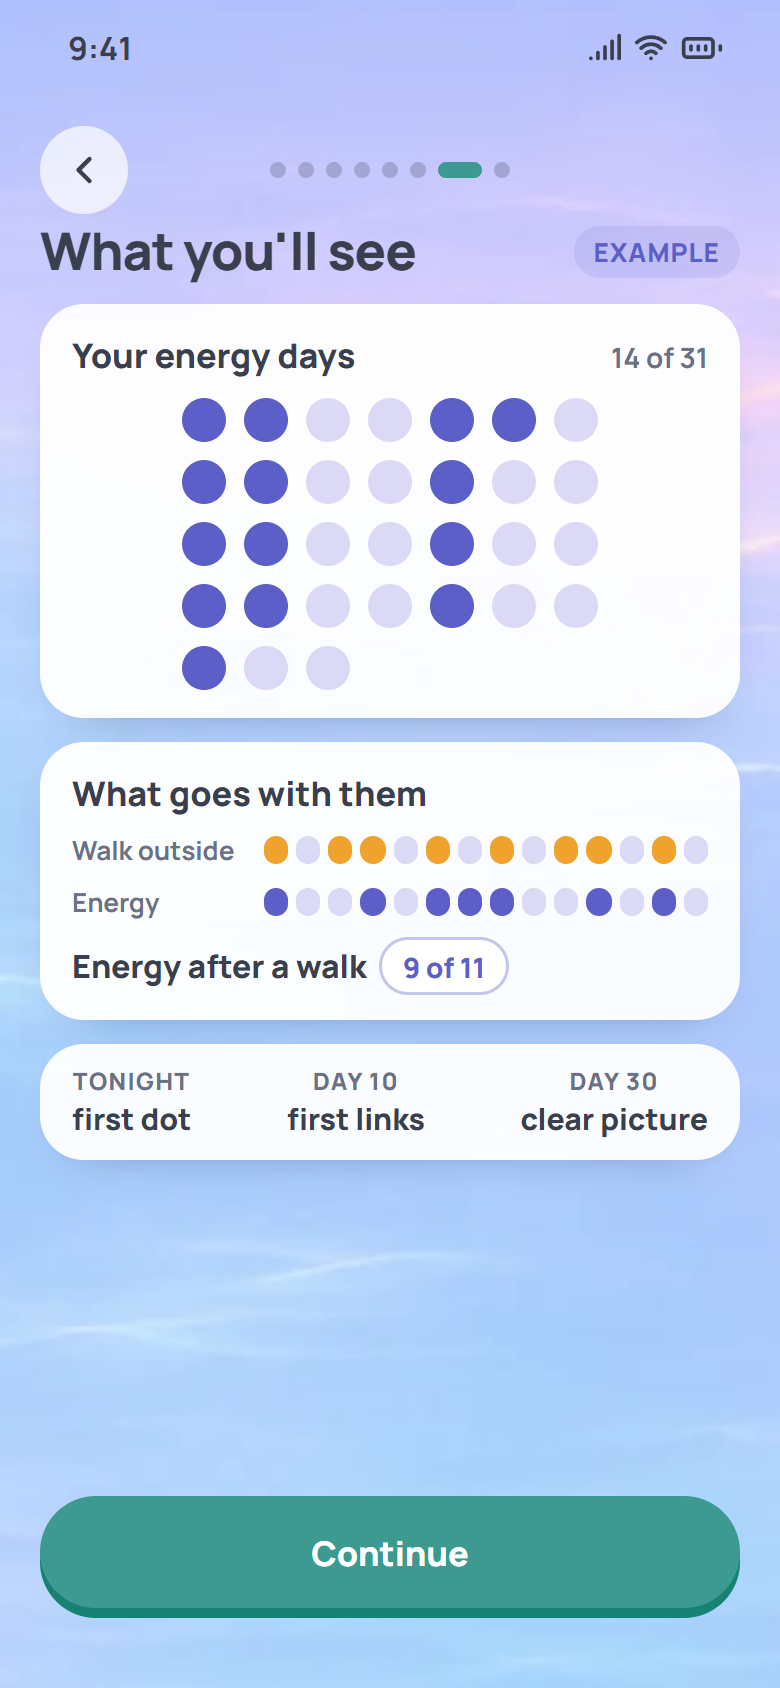
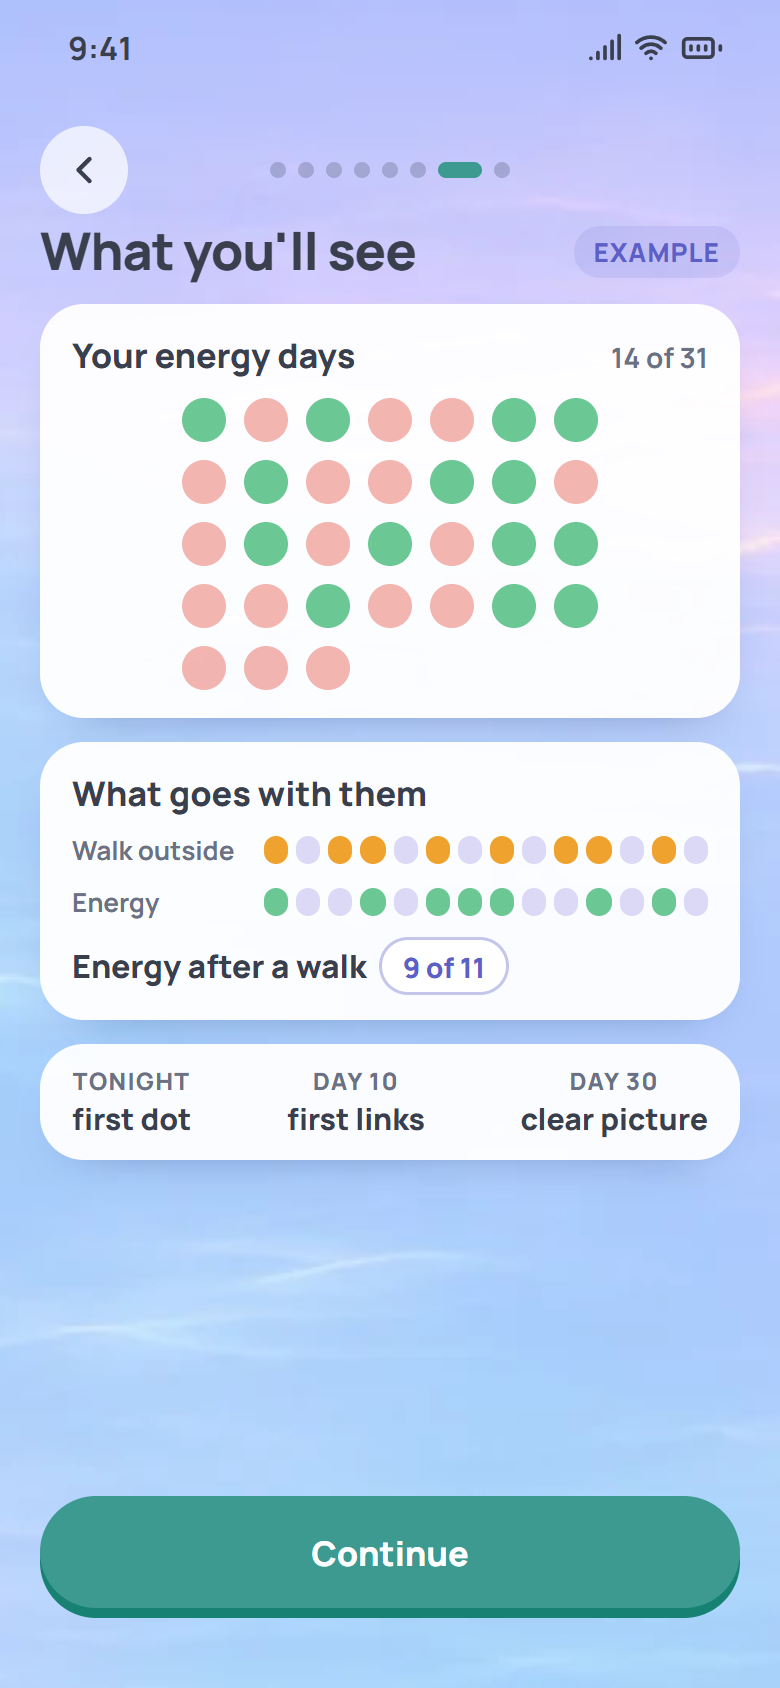
Hard days reddish, good days greenish; fill in past days; yesterday first on a daytime day 1 (v70)
Her notes: colour by meaning, red-ish for hard and green-ish for good; a way to
fill in past days as before; a daytime onboarding offers yesterday's questions.
--strong / --balanced are coral and green in the new look; link signs and
pair lines stay indigo; a link's dots take the colour of the answer counted.
The World calendar card is decided by her main question (or most answers),
not by any one hard answer. Today: a 'Fill in Thursday' pill for the latest
of the last 3 empty days; the evening card opens with its 7-day strip and
marks answered days; a young path starts at a filled day. Day 1 before 17:00
begins with 'Yesterday's questions'. Storyline v2 boards recoloured.

diff --git a/src/components/EveningPath.tsx b/src/components/EveningPath.tsx
@@ -22,7 +22,7 @@ import { cn } from "@/lib/utils";
 import { haptics } from "@/lib/haptics";
 import { playWheelTick, preloadSounds } from "@/lib/feedback";
 import { isoDay } from "@/lib/eveningPath";
-import { DAYS_PER_WEEK, getChests, markActSeen, pathModel, skipTask, syncTasks, type Step, type TaskId } from "@/lib/pathSteps";
+import { DAYS_PER_WEEK, getChests, markActSeen, pastDays, pathModel, skipTask, syncTasks, type Step, type TaskId } from "@/lib/pathSteps";
 import { buildIslands, buildRoutes } from "@/lib/islands";
 import { ITEMS, itemProgress, owned, worldFacts, type ItemId } from "@/lib/growth";
 import { ExperimentSheet } from "@/components/ExperimentSheet";
@@ -186,8 +186,12 @@ export const EveningPath = ({
   const hunchReady = useMemo(() => !!readyHunch(trackers, entries), [trackers, entries, tick]); // eslint-disable-line react-hooks/exhaustive-deps
   // A missed day to fill in waits beside the path, not on it (WORLD-BIBLE,
   // Nov 5 2026): the path holds only today's steps.
-  const steps = useMemo(() => m.steps.filter((s) => s.kind !== "fill"), [m]);
-  const missed = m.steps.find((s) => s.kind === "fill" && !s.done) ?? null;
+  const steps = useMemo(() => m.steps.filter((s) => s.kind !== "fill" || s.onPath), [m]);
+  // A past day to fill in (her note, Nov 6 2026: "дать возможность заполнять за
+  // прошлые дни, как у меня было"): the latest of the last 3 days without its
+  // answers, on a pill that stays in sight; the evening card then shows all 7 days.
+  // Not while yesterday waits on the path itself (day 1 morning).
+  const pastPick = useMemo(() => (m.steps.some((s) => s.onPath) ? null : pastDays(trackers, entries).slice(-3).reverse().find((d) => d.state !== "done") ?? null), [m, trackers, entries]);
   const nodes: PNode[] = useMemo(() => {
     const out: PNode[] = m.pastInWeek.map((date) => ({ kind: "past" as const, date }));
     for (const step of steps) out.push({ kind: "step", step });
@@ -239,7 +243,7 @@ export const EveningPath = ({
   const stepName = (s: Step) => {
     if (s.kind === "auto") return t(s.auto === "topic" ? "path.auto.topic" : "path.auto.first");
     if (s.kind === "grew") return t("path.grew", { name: islandName(t, s.island!) });
-    if (s.kind === "fill") return t("path.fillTitle", { day: weekdayName(s.date!) });
+    if (s.kind === "fill") return s.onPath ? t("path.fillYesterday") : t("path.fillTitle", { day: weekdayName(s.date!) });
     if (s.kind === "game") return t("hunch.step");
     if (s.kind === "act") return t("act.step");
     if (s.kind === "test") return t("experiment.stepDone");
@@ -835,15 +839,7 @@ export const EveningPath = ({
           <p className="path-week-label">{t("path.weekN", { n: m.week + 1 })} · {title}</p>
         </div>
       </div>
-      {/* the missed day, on the side: one small button, never a step */}
-      {missed && (
-        <button type="button" onClick={() => { haptics.tap(); onFillDay(missed.date!); }}
-          className="missed-day mx-auto mt-3 flex h-11 items-center gap-2 rounded-full px-4 text-[15px] font-bold">
-          <CalendarDays className="h-[18px] w-[18px]" strokeWidth={2.4} />
-          {t("path.missedDay", { day: weekdayName(missed.date!) })}
-          <ChevronRight className="h-4 w-4 opacity-60" strokeWidth={2.6} />
-        </button>
-      )}
+
 
       {/* The path. */}
       <section aria-label={title} className="animate-fade-in" style={{ marginTop: 14 }}>
@@ -905,6 +901,17 @@ export const EveningPath = ({
           </div>
         } />
 
+
+      {/* a past day to fill in: always in sight, bottom left (the "back" pill is right) */}
+      {pastPick && createPortal(
+        <button type="button" onClick={() => { haptics.tap(); onFillDay(pastPick.date); }}
+          className="past-pill fixed left-4 z-[30] flex h-12 items-center gap-2 rounded-full bg-white pl-3 pr-4 text-[15px] font-extrabold text-foreground shadow-lg animate-fade-in active:scale-95 transition-transform dark:bg-[hsl(var(--surface))]"
+          style={{ bottom: "calc(7.5rem + env(safe-area-inset-bottom, 0px))" }}>
+          <CalendarDays className="h-5 w-5 text-[hsl(var(--coin-teal))]" strokeWidth={2.4} />
+          {t("path.pastFill", { day: weekdayName(pastPick.date) })}
+        </button>,
+        document.body,
+      )}
 
       {/* Away from her step: back to it, her avatar on the button. */}
       {away && createPortal(

diff --git a/src/lib/pathSteps.ts b/src/lib/pathSteps.ts
@@ -47,6 +47,8 @@ const TASKS_LATER: TaskId[] = ["experiment", "newIsland"];
 export interface Step {
   id: string;
   /** "fill": a missed day (yesterday or the day before) to answer first */
+  /** a fill drawn on the path itself (day 1 before the evening: yesterday's questions) */
+  onPath?: boolean;
   /** "game": the day's hunch (src/components/HunchGame.tsx; was "Guess") */
   /** "act": a rule she set was reached: time for her plan (lighthouses) */
   /** "test": her week of trying one change is over: see how it went */
@@ -388,6 +390,31 @@ export const pathStart = (today: string): string => {
   }
 };
 
+/** A past day she fills in counts on a young path (her note, Nov 6 2026: "дать
+ *  возможность заполнять за прошлые дни"): a path that began in the last 7 days
+ *  moves its start back to that day, so the day is an evening of week 1. An older
+ *  path stays as it is (its weeks don't shift). */
+export const extendPathStart = (date: string, now = new Date()) => {
+  try {
+    const today = isoLocal(now);
+    const start = pathStart(today);
+    const weekAgo = isoLocal(new Date(now.getFullYear(), now.getMonth(), now.getDate() - 7));
+    if (date < start && date >= weekAgo && start >= weekAgo) localStorage.setItem(START_KEY, date);
+  } catch { /* the day is saved; it just won't count on the path */ }
+};
+
+/** The last 7 days before today, oldest first: answered (counted), started (some answers) or empty. */
+export const pastDays = (trackers: Tracker[], entries: TrackerEntry[], now = new Date()): { date: string; state: "done" | "some" | "empty" }[] => {
+  const today = isoLocal(now);
+  const counted = new Set(countedDays(trackers, entries, today));
+  const ids = new Set(activeQuestions(trackers).map((t) => t.id));
+  const some = new Set(entries.filter((e) => ids.has(e.trackerId)).map((e) => e.date));
+  return Array.from({ length: 7 }, (_, i) => {
+    const date = isoLocal(new Date(now.getFullYear(), now.getMonth(), now.getDate() - (7 - i)));
+    return { date, state: counted.has(date) ? "done" : some.has(date) ? "some" : "empty" };
+  });
+};
+
 const CHESTS_KEY = "memap_week_chests";
 /** What a week's chest showed when it was opened: saved once, reopened as is. */
 export interface ChestLine { label: string; k: number; n: number; main?: boolean; calm?: boolean }
@@ -468,13 +495,18 @@ export const pathModel = (trackers: Tracker[], entries: TrackerEntry[], now = ne
   const started = door?.startedAt ?? start;
   const firstEntry = entries.reduce<string | null>((min, e) => (min === null || e.date < min ? e.date : min), null);
   const counted = new Set(all);
+  // Day 1 before the evening (her note, Nov 6 2026: "если онбординг проходит днём
+  // или утром, предлагать вопросы за вчера"): today isn't over yet, so yesterday's
+  // questions come first, on the path itself; tonight is today's.
+  const dayOneMorning = started === today && now.getHours() < 17;
   for (const back of [1, 2]) {
     const d = new Date(now.getFullYear(), now.getMonth(), now.getDate() - back);
     const iso = isoLocal(d);
-    if (iso < started || !firstEntry || firstEntry >= iso || counted.has(iso)) continue;
+    const onPath = back === 1 && dayOneMorning;
+    if (counted.has(iso) || (!onPath && (iso < started || !firstEntry || firstEntry >= iso))) continue;
     const ids = activeQuestions(trackers).map((t) => t.id);
     const got = new Set(entries.filter((e) => e.date === iso).map((e) => e.trackerId));
-    steps.push({ id: `fill:${iso}`, kind: "fill", date: iso, trackerIds: ids, answered: ids.filter((id) => got.has(id)).length, done: false });
+    steps.push({ id: `fill:${iso}`, kind: "fill", date: iso, trackerIds: ids, answered: ids.filter((id) => got.has(id)).length, done: false, onPath });
     break;
   }
 

diff --git a/src/components/DaysOverview.tsx b/src/components/DaysOverview.tsx
@@ -9,7 +9,7 @@
 import { useEffect, useMemo, useRef, useState } from "react";
 import { useTranslation } from "react-i18next";
 import { Tracker, TrackerEntry } from "@/types/tracker";
-import { isoLocal } from "@/lib/doors";
+import { getDoorState, isoLocal } from "@/lib/doors";
 import { isHardAnswer, mapPic } from "@/lib/islands";
 import { litTrackers } from "@/lib/lighthouses";
 import { answeredEvenings, SHAPING_EVENINGS } from "@/lib/actionPoints";
@@ -45,31 +45,41 @@ export const DaysOverview = ({ trackers, entries, onOpen }: {
   const { t } = useTranslation();
   const live = useMemo(() => trackers.filter((tr) => !tr.archived && tr.source !== "play"), [trackers]);
 
-  // The last 28 days: answered, hard (a problem question answered YES), empty.
-  const month = useMemo(() => {
-    const ids = new Set(live.map((tr) => tr.id));
+  // What a day was (Nov 6 2026, the colours turned red / green: "any hard answer"
+  // made nearly every day red with many questions): her main question decides
+  // when it was answered; otherwise most of the day's answers do.
+  const dayLook = useMemo(() => {
     const byId = new Map(live.map((tr) => [tr.id, tr]));
-    return Array.from({ length: 28 }, (_, i) => {
-      const d = new Date();
-      d.setDate(d.getDate() - (27 - i));
-      const iso = isoLocal(d);
-      const es = entries.filter((e) => e.date === iso && ids.has(e.trackerId));
-      return es.length === 0 ? "none" : es.some((e) => isHardAnswer(byId.get(e.trackerId)!, e.value)) ? "hard" : "calm";
-    });
+    const main = getDoorState()?.trackerId;
+    const byDay = new Map<string, TrackerEntry[]>();
+    for (const e of entries) if (byId.has(e.trackerId)) byDay.set(e.date, [...(byDay.get(e.date) ?? []), e]);
+    return (iso: string): "none" | "hard" | "calm" => {
+      const es = byDay.get(iso) ?? [];
+      if (es.length === 0) return "none";
+      const m = main ? es.find((e) => e.trackerId === main) : undefined;
+      if (m) return isHardAnswer(byId.get(m.trackerId)!, m.value) ? "hard" : "calm";
+      const hard = es.filter((e) => isHardAnswer(byId.get(e.trackerId)!, e.value)).length;
+      return hard * 2 > es.length ? "hard" : "calm";
+    };
   }, [live, entries]);
 
-  // Hard days per week, the last 8 weeks (oldest first).
+  // The last 28 days: hard (red), calm / good (green), empty.
+  const month = useMemo(() => Array.from({ length: 28 }, (_, i) => {
+    const d = new Date();
+    d.setDate(d.getDate() - (27 - i));
+    return dayLook(isoLocal(d));
+  }), [dayLook]);
+
+  // Hard days per week, the last 8 weeks (oldest first), by the same rule.
   const weeks = useMemo(() => Array.from({ length: 8 }, (_, w) => {
-    const byId = new Map(live.map((tr) => [tr.id, tr]));
-    const days = new Set<string>();
+    let n = 0;
     for (let d = 0; d < 7; d++) {
       const day = new Date();
       day.setDate(day.getDate() - ((7 - w) * 7 + d));
-      const iso = isoLocal(day);
-      if (entries.some((e) => e.date === iso && byId.has(e.trackerId) && isHardAnswer(byId.get(e.trackerId)!, e.value))) days.add(iso);
+      if (dayLook(isoLocal(day)) === "hard") n++;
     }
-    return days.size;
-  }), [live, entries]);
+    return n;
+  }), [dayLook]);
 
   const lit = useMemo(() => litTrackers(trackers, entries).size, [trackers, entries]);
   const rules = live.filter((tr) => tr.threshold > 0).length;

diff --git a/src/index.css b/src/index.css
@@ -2362,17 +2362,19 @@ header h1 { transition: opacity 200ms ease; }
 .planet-sky.night { background-size: 100% auto; background-color: #2C3B70; }
 .planet-canvas, .planet-wakes { position: absolute; inset: 0; width: 100%; height: 100%; }
 .planet-wakes { pointer-events: none; }
-/* Data colours in the new look (her note, Nov 4 2026: the calendar's and charts'
-   teal, yellow and pink "совсем не те"): indigo = a yes / a signal (the islands'
-   storm), soft lavender = a no / calm, warm amber = the second line of a pair.
-   The old screens keep theirs (:root). */
+/* Data colours in the new look. Nov 4 2026 (her note: teal, yellow and pink "совсем
+   не те"): indigo and lavender. Nov 6 2026 (her note: "колор-кодинг на плохое и
+   хорошее — красноватое, зеленоватое, а то неочевидно"): a hard day (--strong) is
+   soft coral red, a good / calm day (--balanced) soft green, by what the answer
+   means, not yes/no. Indigo (--data-a) stays for neutral things: a pair's first
+   line, a link's sign; warm amber the second line. The old screens keep theirs. */
 :root { --data-a: var(--coin-teal); --data-b: 322 40% 60%; }
 /* Text: soft graphite #3A3F4E, quieter text #6B7184 (her pick, Nov 5 2026, board 51) */
 html[data-ui="new"][data-theme="aurora-light"] { --foreground: 226 15% 27%; --muted-foreground: 226 10% 47%; }
-html[data-ui="new"][data-theme="aurora-light"] { --strong: 232 62% 64%; --strong-foreground: 0 0% 100%; --balanced: 228 75% 84%; --balanced-foreground: 232 45% 30%; --data-a: 232 62% 62%; --data-b: 36 86% 56%; }
-html[data-ui="new"][data-theme="aurora"] { --strong: 232 80% 72%; --strong-foreground: 232 60% 12%; --balanced: 228 55% 68%; --balanced-foreground: 0 0% 100%; --data-a: 232 85% 74%; --data-b: 38 90% 62%; }
+html[data-ui="new"][data-theme="aurora-light"] { --strong: 5 76% 65%; --strong-foreground: 0 0% 100%; --balanced: 146 45% 60%; --balanced-foreground: 150 50% 18%; --data-a: 232 62% 62%; --data-b: 36 86% 56%; }
+html[data-ui="new"][data-theme="aurora"] { --strong: 5 82% 70%; --strong-foreground: 5 60% 14%; --balanced: 146 48% 58%; --balanced-foreground: 150 60% 10%; --data-a: 232 85% 74%; --data-b: 38 90% 62%; }
 /* a link's sign on its route: opens the link card (LinkSheet) */
-.link-chip { width: 34px; height: 34px; border-radius: 17px; background: #fff; color: hsl(var(--strong)); display: flex; align-items: center; justify-content: center;
+.link-chip { width: 34px; height: 34px; border-radius: 17px; background: #fff; color: hsl(var(--data-a)); display: flex; align-items: center; justify-content: center;
   box-shadow: 0 6px 14px -8px rgba(20, 50, 90, .55); transition: transform .12s ease-out; }
 button.link-chip:active { transform: scale(.92); }
 .planet-link-chip { position: absolute; left: 0; top: 0; will-change: transform, opacity; }

diff --git a/src/lib/islands.ts b/src/lib/islands.ts
@@ -153,7 +153,7 @@ export interface Island {
  *  firstYes false: the days WITHOUT the first (her note, Nov 6 2026: "no walk →
  *  tired" read as "walk → tired"); secondYes false: the second did NOT come.
  *  other: the second (that same answer) on the rest of the days. */
-export interface Route { a: IslandId; b: IslandId; k: number; n: number; first: string; second: string; nextDay: boolean; firstYes: boolean; secondYes: boolean; other: { k: number; n: number } }
+export interface Route { a: IslandId; b: IslandId; k: number; n: number; first: string; second: string; nextDay: boolean; firstYes: boolean; secondYes: boolean; other: { k: number; n: number }; /** the counted answer is a hard one (red), a good one (green), or neither */ secondHard: boolean | null }
 
 /** A pattern as she reads it. Together (phi > 0): "with A → B". Apart (phi < 0):
  *  the second is told by its hard answer, as a hard day is (WORLD-BIBLE): "without
@@ -169,8 +169,10 @@ export const linkOf = (c: CorrelationResult) => {
   // in reading order: the first is A, or B when B came the day before
   const at = (f: boolean, s: boolean) => (flip ? cell(s, f) : cell(f, s));
   const k = at(firstYes, secondYes), ok = at(!firstYes, secondYes);
+  const pol = trackerPolarity(second0);
+  const secondHard = pol === "neutral" ? null : secondYes === (pol === "bad");
   return {
-    first: flip ? c.trackerB : c.trackerA, second: second0, firstYes, secondYes, nextDay: c.lag !== 0,
+    first: flip ? c.trackerB : c.trackerA, second: second0, firstYes, secondYes, secondHard, nextDay: c.lag !== 0,
     k, n: k + at(firstYes, !secondYes), other: { k: ok, n: ok + at(!firstYes, !secondYes) },
   };
 };
@@ -264,7 +266,7 @@ export const buildRoutes = (trackers: Tracker[], entries: TrackerEntry[], island
     const key = [a, b].sort().join("|");
     if (seen.has(key)) continue;
     seen.add(key);
-    out.push({ a, b, k: l.k, n: l.n, first: l.first.id, second: l.second.id, nextDay: l.nextDay, firstYes: l.firstYes, secondYes: l.secondYes, other: l.other });
+    out.push({ a, b, k: l.k, n: l.n, first: l.first.id, second: l.second.id, nextDay: l.nextDay, firstYes: l.firstYes, secondYes: l.secondYes, secondHard: l.secondHard, other: l.other });
   }
   return out.slice(0, 4);
 };

diff --git a/src/components/LinkSheet.tsx b/src/components/LinkSheet.tsx
@@ -12,6 +12,9 @@ import { localizeTrackerTitle } from "@/lib/trackerLocalize";
 import { haptics } from "@/lib/haptics";
 import { Tracker } from "@/types/tracker";
 
+/** A counted day's colour: hard red, good green, neutral indigo. */
+const dot = (hard: boolean | null, a = 1) => (hard === null ? `hsl(var(--data-a) / ${a})` : hard ? `hsl(var(--strong) / ${a})` : `hsl(var(--balanced) / ${a})`);
+
 export const LinkSheet = ({ route, trackers, days, onClose, onChart }: {
   route: Route | null;
   trackers: Tracker[];
@@ -54,14 +57,14 @@ export const LinkSheet = ({ route, trackers, days, onClose, onChart }: {
 
           <p className="mt-5 text-[22px] font-bold leading-snug tracking-tight">
             {linkArrow(t, r, title)}
-            {r.nextDay && <span className="ml-2 inline-flex h-7 translate-y-[-2px] items-center rounded-full bg-[hsl(var(--strong)/0.14)] px-2.5 align-middle text-[14px] font-bold text-[hsl(var(--strong))]">{t("map.nextDay")}</span>}
+            {r.nextDay && <span className="ml-2 inline-flex h-7 translate-y-[-2px] items-center rounded-full bg-[hsl(var(--data-a)/0.14)] px-2.5 align-middle text-[14px] font-bold text-[hsl(var(--strong))]">{t("map.nextDay")}</span>}
           </p>
 
           {/* k of n, as dots: filled = it came */}
           <p className="mt-4 text-[34px] font-bold leading-none tracking-tight tabular-nums">{t("map.timesOf", { k: r.k, count: r.n })}</p>
           <div className="mt-3 flex flex-wrap gap-1.5" aria-hidden="true">
             {Array.from({ length: Math.min(r.n, 40) }, (_, i) => (
-              <span key={i} className="h-3 w-3 rounded-full" style={{ background: i < r.k ? "hsl(var(--strong))" : "hsl(var(--balanced) / 0.7)" }} />
+              <span key={i} className="h-3 w-3 rounded-full" style={{ background: i < r.k ? dot(r.secondHard) : r.secondHard === null ? "hsl(var(--foreground) / 0.12)" : dot(!r.secondHard, 0.7) }} />
             ))}
           </div>
           <p className="mt-3 text-[16px] font-medium leading-snug text-muted-foreground">

diff --git a/src/components/DailySession.tsx b/src/components/DailySession.tsx
@@ -658,7 +658,9 @@ export const DailySession = ({
   const crossedRef = useRef(false);
   // evenings answered on each island: the question card shows its island at its stage
   const islandEveningsMap = useMemo(() => islandEvenings(trackers, entries) as Map<string, number>, [trackers, entries]);
-  const [showDates, setShowDates] = useState(false);
+  // the 7 days in sight at once, to answer for any of them (her note, Nov 6 2026:
+  // "заполнять за прошлые дни, как у меня было"); the title still folds them away
+  const [showDates, setShowDates] = useState(() => !!onDateChange);
 
   const handlePointerDown = (e: React.PointerEvent<HTMLDivElement>) => {
     crossedRef.current = false;
@@ -1270,6 +1272,9 @@ export const DailySession = ({
             Future dates are excluded — you can't pre-fill tomorrow. */}
         {onDateChange && showDates && (() => {
           const todayStr = todayLocal();
+          // which days already have answers: a gold dot; a missed one: an empty ring
+          const ids = new Set(trackers.filter((tr) => !tr.archived).map((tr) => tr.id));
+          const answered = new Set(entries.filter((e) => ids.has(e.trackerId)).map((e) => e.date));
           const days = Array.from({ length: 7 }, (_, i) => {
             const d = new Date();
             d.setDate(d.getDate() - (6 - i));
@@ -1298,6 +1303,7 @@ export const DailySession = ({
                       "text-base font-semibold tabular-nums",
                       isToday && !isSelected && "text-foreground"
                     )}>{dayNum}</span>
+                    <span aria-hidden="true" className={cn("mt-0.5 h-1.5 w-1.5 rounded-full", answered.has(iso) ? "bg-[#F6B92B]" : "ring-[1.5px] ring-inset ring-foreground/25")} />
                   </button>
                 );
               })}

diff --git a/src/components/TodayTab.tsx b/src/components/TodayTab.tsx
@@ -35,7 +35,7 @@ import { AddTrackerModal } from "./AddTrackerModal";
 import { DailySession } from "./DailySession";
 import { EveningPath } from "./EveningPath";
 import { DaySheet } from "./DaySheet";
-import { markTaskDone, pathModel, type Step, type TaskId } from "@/lib/pathSteps";
+import { extendPathStart, markTaskDone, pathModel, type Step, type TaskId } from "@/lib/pathSteps";
 import { haptics } from "@/lib/haptics";
 import { DateSelector } from "./DateSelector";
 import {
@@ -1017,6 +1017,7 @@ export const TodayTab = ({ view = "today", onBack }: { view?: "today" | "questio
         onOpenMap={() => window.dispatchEvent(new CustomEvent("memap-switch-tab", { detail: { tab: "patterns" } }))}
         onFillDay={(date, redo) => {
           if (redo) { setDayOpen({ date }); return; }
+          extendPathStart(date);
           setStep(redo ? { redo: true } : null);
           setSelectedDate(date);
           setDailySessionOpen(true);

diff --git a/src/components/IslandStats.tsx b/src/components/IslandStats.tsx
@@ -129,7 +129,7 @@ export const IslandWeek = ({ island, trackers }: { island: Island; trackers: Tra
             return (
               <p key={h.trackerId} className="mt-1.5 flex items-center gap-2 text-[15px] font-medium leading-snug">
                 <span className="min-w-0 flex-1 leading-snug">{title(h.trackerId)}</span>
-                <span className="shrink-0 rounded-full bg-[hsl(var(--strong)/0.14)] px-2 py-0.5 text-[13px] font-bold text-[hsl(var(--strong))]">
+                <span className="shrink-0 rounded-full bg-[hsl(var(--data-a)/0.14)] px-2 py-0.5 text-[13px] font-bold text-[hsl(var(--strong))]">
                   {tr?.problemWhen === "yes" ? t("common.yes") : t("common.no")} · {t("isle.days", { count: h.days })}
                 </span>
               </p>

diff --git a/src/lib/doctorReport.ts b/src/lib/doctorReport.ts
@@ -56,7 +56,8 @@ const M = 92, SPAN = PX.w - 2 * M;
 const FONT = "'MeMap Sans', Manrope, system-ui, sans-serif";
 const INK = "#2f3448", SOFT = "#6a7088", FAINT = "#b6bbcc", LINE = "rgba(47,52,72,.12)";
 const YES = "#5b63d6", NO = "#c9cdf3", NONE = "#e6e8ef", TEAL = "#2f9c90", PANEL = "#f4f5f9";
-const HARD = "#5b63d6", CALM = "#c3c8f2";
+// her version: hard days reddish, good ones greenish (as in the app, Nov 6 2026); the specialist's stays neutral
+const HARD = "#ec7366", CALM = "#7fcf9c";
 
 const ru = () => !!i18n.language?.startsWith("ru");
 const locale = () => (ru() ? "ru-RU" : "en-GB");

diff --git a/src/locales/ru.ts b/src/locales/ru.ts
@@ -967,6 +967,8 @@ const ru: Translation = {
     // Aurora step 2 (Nov 2 2026): the raised path
     // Steps, not evenings (Nov 2 2026)
     fillTitle: "Заполнить {{day}}",
+    fillYesterday: "Вопросы за вчера",
+    pastFill: "Заполнить: {{day}}",
     missedDay: "Дозаполнить: {{day}}",
     skip: "Не сегодня",
     skipped: "Пропущено",

diff --git a/src/locales/en.ts b/src/locales/en.ts
@@ -838,6 +838,8 @@ const en = {
     // Aurora step 2 (Nov 2 2026): the raised path
     // Steps, not evenings (Nov 2 2026)
     fillTitle: "Fill in {{day}}",
+    fillYesterday: "Yesterday's questions",
+    pastFill: "Fill in {{day}}",
     missedDay: "Missed {{day}}? Fill it in",
     skip: "Not today",
     skipped: "Skipped",
